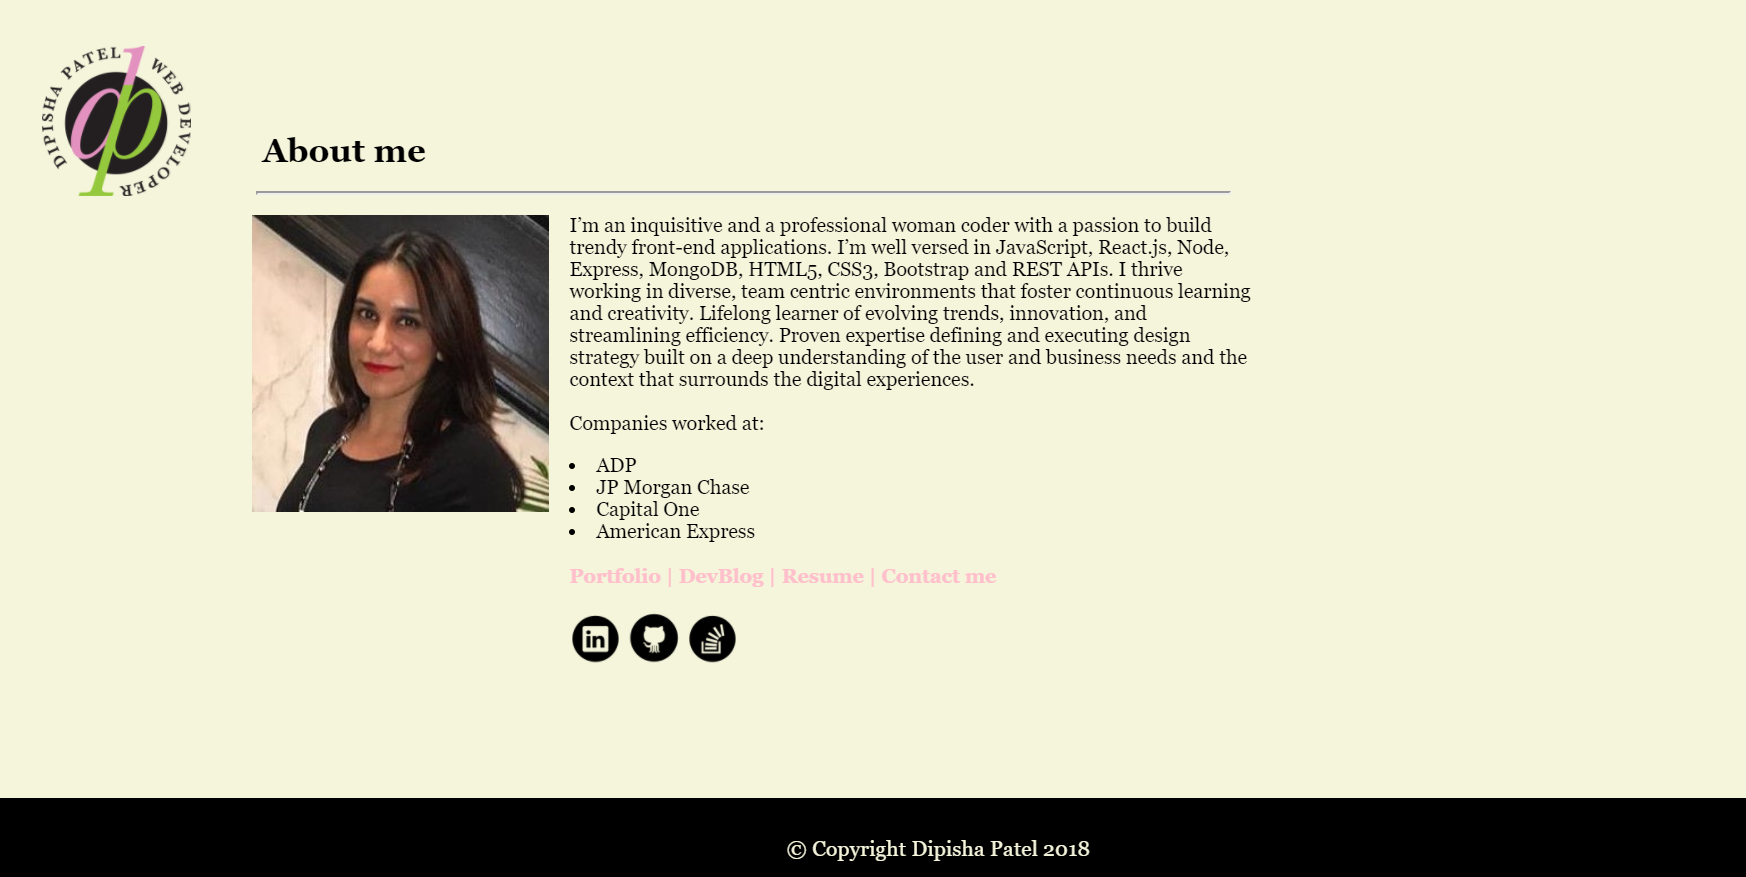
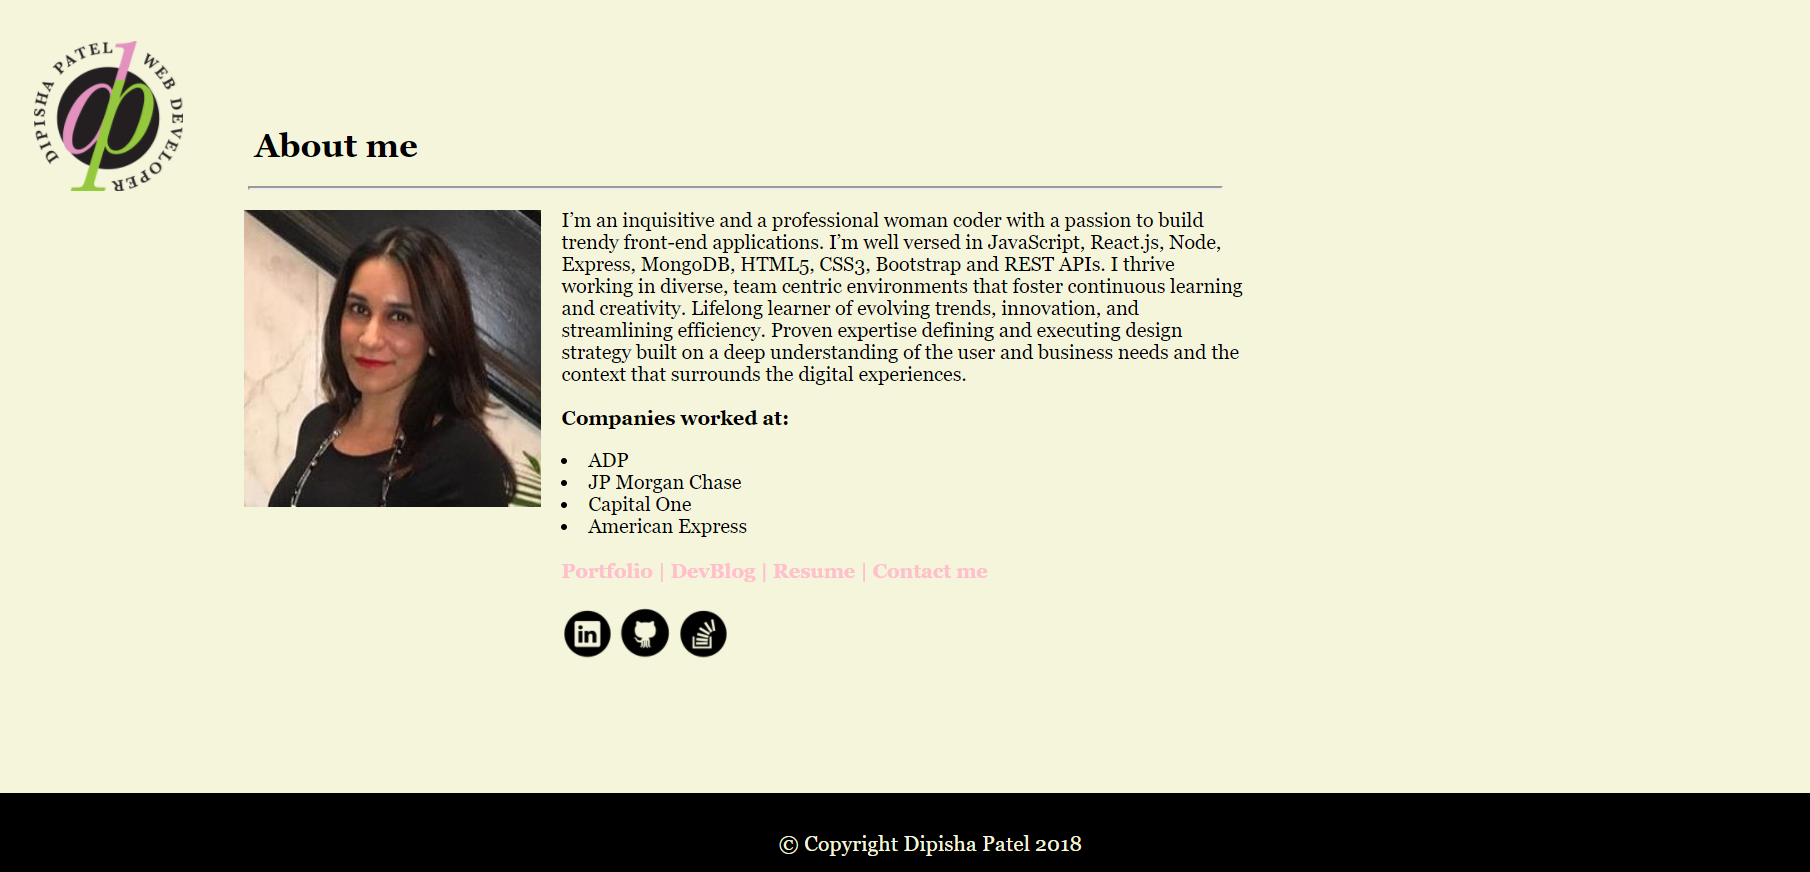
responsive test

diff --git a/portfolio.html b/portfolio.html
@@ -6,8 +6,10 @@
     <title> Portfolio Page </title>
 
 	<link rel="stylesheet" type="text/css" href="./assets/css/style.css">
-	<meta name="viewport" content="width=device-width, initial-scale=1">
-     
+	<meta name="viewport" content="width=device-width,initial-scale=1,maximum-scale=1,user-scalable=no">
+	<meta http-equiv="X-UA-Compatible" content="IE=edge,chrome=1">
+	<meta name="HandheldFriendly" content="true">
+	
 </head>
 <body>
 
@@ -28,7 +30,6 @@
 			<br>
 			<b>Technologies used:</b> MongoDB, Express, React.js, Node, Animate.CSS </p>
 		<br>
-		<br>
 
 <!-- App Two -->
 		<a class = "buttons" href= "https://alchemy-dating-app.herokuapp.com/" target="_blank"> 
@@ -36,7 +37,6 @@
 			<p id = "p"> Led a team of six to create a full stack dating application authenticated to find the perfect match through zodiac connectivity.
 			<br>
 			<b>Technologies used:</b> HTML5 | CSS3 | JavaScript | Node | Express | Handlebars | Sequelize </p>
-		<br>
 		<br>
 	
 <!-- App Three -->
@@ -46,7 +46,6 @@
 			<br>
 			<b>Technologies used:</b> HTML5 | CSS3 | JavaScript | MySQL | Node | Express | Handlebars </p>
 		<br>
-		<br>
 
 <!-- App Four -->
 		<a class = "buttons" href= "https://stormy-anchorage-68787.herokuapp.com/" target="_blank"> 
@@ -54,7 +53,6 @@
 			<p id = "p"> Built a compatibility-based full stack application that takes in results from the users' survey and  compares the users' responses to generate the best compatible match.
 			<br>
 			<b>Technologies used:</b> HTML5 | Bootstrap | Node | Express | JavaScript </p>
-		<br>
 		<br>
 
 <!-- App Five -->
@@ -64,15 +62,13 @@
 			<br>
 			<b>Technologies used:</b> HTML5 | CSS3 | JavaScript | AJAX | APIs </p>
 		<br>
-		<br>
 		
 <!-- App Six -->
 		<a class = "buttons" href= "https://dipisha03.github.io/TriviaGame/#" target="_blank"> 
 		Trivia Game </a> 
-			<p id = "p"> Created a timed JavaScript Trivia Game based on the Netflix original series, Strangers Things! </p>
+			<p id = "p"> Created a timed JavaScript Trivia Game based on the Netflix original series, Strangers Things!
 			<br>
 			<b>Technologies used:</b> HTML5 | CSS3 | JavaScript | Jquery </p>
-		<br>
 		<br>
 
 <!--HomePage Link -->

diff --git a/assets/css/style.css b/assets/css/style.css
@@ -1,16 +1,17 @@
-#main div {
-    -webkit-flex: 1; /* Safari 6.1+ */
-    -ms-flex: 1; /* IE 10 */ 
-    flex: 1;
-}
 
 body {
 	background-color: beige;
+	-webkit-flex: 1; /* Safari 6.1+ */
+    -ms-flex: 1; /* IE 10 */ 
+    flex: 1;
 }
 
 .title {
 	width: 95%;
 	text-align: center;
+	-webkit-flex: 1; /* Safari 6.1+ */
+    -ms-flex: 1; /* IE 10 */ 
+    flex: 1;
 }
 
 #logo {
@@ -18,7 +19,10 @@ body {
     max-width: 100%;
     float: left;
     margin-left: 2%;
-    margin-top: 2%;
+	margin-top: 2%;
+	-webkit-flex: 1; /* Safari 6.1+ */
+    -ms-flex: 1; /* IE 10 */ 
+    flex: 1;
 }
 
 .pageheader {
@@ -26,7 +30,10 @@ body {
     color: black;
     font-family: Georgia;
     font-size: 20px;
-    padding-left: 3%;
+	padding-left: 3%;
+	-webkit-flex: 1; /* Safari 6.1+ */
+    -ms-flex: 1; /* IE 10 */ 
+    flex: 1;
 }
 
 .body {
@@ -37,17 +44,26 @@ body {
     margin-left: 12%;
     font-size: 12px;
     height: 50%;
-    width: 54%;
+	width: 54%;
+	-webkit-flex: 1; /* Safari 6.1+ */
+    -ms-flex: 1; /* IE 10 */ 
+    flex: 1;
 }
 
 #bio-image {
 	float: left;
-	padding: 1% 2% 100%
+	padding: 1% 2% 100%;
+	-webkit-flex: 1; /* Safari 6.1+ */
+    -ms-flex: 1; /* IE 10 */ 
+    flex: 1;
 }
 
 #p, #li {
 	font-family: Georgia;
 	font-size: 12px;
+	-webkit-flex: 1; /* Safari 6.1+ */
+    -ms-flex: 1; /* IE 10 */ 
+    flex: 1;
 }
 
 .buttons {
@@ -56,6 +72,9 @@ body {
 	font-weight: bold;
 	text-decoration: none;
 	color: pink;
+	-webkit-flex: 1; /* Safari 6.1+ */
+    -ms-flex: 1; /* IE 10 */ 
+    flex: 1;
 }
 
 .buttons:hover {
@@ -72,11 +91,17 @@ body {
 	width: 52%;
 	margin-bottom: 20%;
 	z-index: 4;
+	-webkit-flex: 1; /* Safari 6.1+ */
+    -ms-flex: 1; /* IE 10 */ 
+    flex: 1;
 }
 
 .apps {
 	margin-left: 3%;
-    text-align: -webkit-left;
+	text-align: -webkit-left;
+	-webkit-flex: 1; /* Safari 6.1+ */
+    -ms-flex: 1; /* IE 10 */ 
+    flex: 1;
 }
 
 .foot{
@@ -92,4 +117,7 @@ body {
 	height: 5%;
 	padding-top: 2%;
 	z-index: 999;
+	-webkit-flex: 1; /* Safari 6.1+ */
+    -ms-flex: 1; /* IE 10 */ 
+    flex: 1;
 }

diff --git a/index.html b/index.html
@@ -6,7 +6,9 @@
     <title> About Me Page </title>
 
 	<link rel="stylesheet" type="text/css" href="./assets/css/style.css">
-	<meta name="viewport" content="width=device-width, initial-scale=1">
+	<meta name="viewport" content="width=device-width,initial-scale=1,maximum-scale=1,user-scalable=no">
+	<meta http-equiv="X-UA-Compatible" content="IE=edge,chrome=1">
+	<meta name="HandheldFriendly" content="true">
      
 </head>
 <body>
